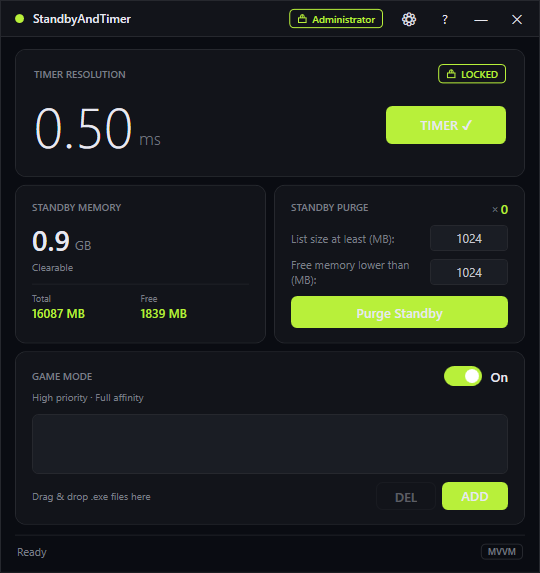
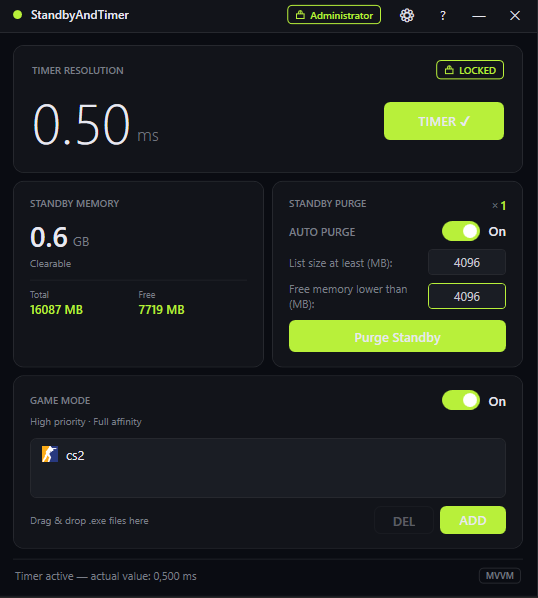
Add AUTO PURGE master switch, default thresholds to 0, tighten timer watchdog to 100 ms (#11)
* Add AUTO PURGE master switch, default thresholds to 0, tighten timer watchdog to 100 ms

A fresh install used to ship StandbyLimit=Free=1024 MB so the standby list
got purged the moment the user crossed both thresholds — without ever
opting in. Defaults are now 0/0 and a new AUTO PURGE toggle gates the
whole auto-purge flow alongside the (already required) > 0 thresholds.

The timer watchdog also drops from 250 ms to 100 ms. NtSetTimerResolution
is a µs-cost idempotent syscall; calling it 10×/sec keeps the drift window
under one 60 Hz frame, so any "1 ms blip" is invisible in-game.

* chore: remove stale nested CLAUDE.md

The project-level CLAUDE.md contradicted the root-level one ("currently
in early development — only the default WPF template exists") and had
the original migration system prompt pasted at the end, which doesn't
belong in a public repo. Root CLAUDE.md is the authoritative copy.

* docs: refresh README screenshot to show AUTO PURGE toggle

Captured from the updated Release build so the screenshot reflects
the new STANDBY PURGE card layout with the master switch above the
threshold inputs.

* perf: pin timer watchdog to dedicated AVRT thread at 50 ms

The 100 ms ThreadPool-based watchdog still let the kernel resolution
briefly slip from 0.5 ms to 1 ms during heavy game load:

  * ThreadPool callbacks can be delayed tens of ms when game code
    saturates the pool.
  * Even if the callback fires on time, the watchdog thread itself
[…]

diff --git a/StandbyAndTimer/MainWindow.xaml b/StandbyAndTimer/MainWindow.xaml
@@ -272,6 +272,35 @@
                                 </StackPanel>
                             </Grid>
 
+                            <!-- AUTO PURGE master toggle — when off, both thresholds
+                                 are ignored and no automatic purge ever fires. -->
+                            <Grid Margin="0,0,0,8">
+                                <TextBlock Text="{DynamicResource Str_Card_AutoPurgeLabel}"
+                                           FontSize="11"
+                                           FontWeight="SemiBold"
+                                           Foreground="{DynamicResource AppFgDim}"
+                                           VerticalAlignment="Center"/>
+                                <CheckBox Style="{StaticResource ToggleSwitchStyle}"
+                                          IsChecked="{Binding AutoPurgeEnabled}"
+                                          HorizontalAlignment="Right"
+                                          VerticalAlignment="Center">
+                                    <CheckBox.Content>
+                                        <TextBlock>
+                                            <TextBlock.Style>
+                                                <Style TargetType="TextBlock">
+                                                    <Setter Property="Text" Value="{DynamicResource Str_Card_GameModeOff}"/>
+                                                    <Style.Triggers>
+                                                        <DataTrigger Binding="{Binding AutoPurgeEnabled}" Value="True">
+                                                            <Setter Property="Text" Value="{DynamicResource Str_Card_GameModeOn}"/>
+                                                        </DataTrigger>
+                                                    </Style.Triggers>
+                                                </Style>
+                                            </TextBlock.Style>
+                                        </TextBlock>
+                                    </CheckBox.Content>
+                                </CheckBox>
+                            </Grid>
+
                             <Grid Margin="0,0,0,6">
                                 <Grid.ColumnDefinitions>
                                     <ColumnDefinition Width="*"/>

diff --git a/StandbyAndTimer/Views/Strings/Strings.en-US.xaml b/StandbyAndTimer/Views/Strings/Strings.en-US.xaml
@@ -17,6 +17,7 @@
     <sys:String x:Key="Str_Card_StandbyTitle">STANDBY MEMORY</sys:String>
     <sys:String x:Key="Str_Card_StandbyClearable">Clearable</sys:String>
     <sys:String x:Key="Str_Card_PurgeTitle">STANDBY PURGE</sys:String>
+    <sys:String x:Key="Str_Card_AutoPurgeLabel">AUTO PURGE</sys:String>
     <sys:String x:Key="Str_Card_GameModeTitle">GAME MODE</sys:String>
     <sys:String x:Key="Str_Card_GameModeOn">On</sys:String>
     <sys:String x:Key="Str_Card_GameModeOff">Off</sys:String>

diff --git a/StandbyAndTimer/Views/Strings/Strings.tr-TR.xaml b/StandbyAndTimer/Views/Strings/Strings.tr-TR.xaml
@@ -17,6 +17,7 @@
     <sys:String x:Key="Str_Card_StandbyTitle">STANDBY BELLEK</sys:String>
     <sys:String x:Key="Str_Card_StandbyClearable">Temizlenebilir</sys:String>
     <sys:String x:Key="Str_Card_PurgeTitle">STANDBY TEMİZLE</sys:String>
+    <sys:String x:Key="Str_Card_AutoPurgeLabel">OTO TEMİZLE</sys:String>
     <sys:String x:Key="Str_Card_GameModeTitle">OYUN MODU</sys:String>
     <sys:String x:Key="Str_Card_GameModeOn">Açık</sys:String>
     <sys:String x:Key="Str_Card_GameModeOff">Kapalı</sys:String>

diff --git a/StandbyAndTimer/Services/TimerResolutionService.cs b/StandbyAndTimer/Services/TimerResolutionService.cs
@@ -7,16 +7,24 @@ internal sealed class TimerResolutionService : ITimerResolutionService
 {
     // ── Triple-lock strategy ──────────────────────────────────────────────────
     //  1. NtSetTimerResolution(min, true)     ← per-process modern API
-    //  2. timeBeginPeriod(1) (winmm)          ← legacy MMTimer double-binding
-    //  3. PROCESS_POWER_THROTTLING_IGNORE_TIMER_RESOLUTION (set once in App)
-    //  4. Self-heal watchdog (1 s tick)       ← if OS drift, NtQuery returns
-    //                                            a value != target → re-Set.
+    //  2. PROCESS_POWER_THROTTLING_IGNORE_TIMER_RESOLUTION (set once in App)
+    //  3. Self-heal watchdog (50 ms, dedicated AVRT thread) ← re-Set
+    //     unconditionally every tick. The watchdog runs on its OWN Thread
+    //     (not the ThreadPool) so it can never be starved by user code or
+    //     EcoQoS scheduling pressure during a game, and it registers itself
+    //     as MMCSS "Pro Audio" so Win 11 won't throttle the watchdog itself.
+    //     Combined: re-assert every ≤50 ms regardless of system load, so
+    //     even if another process briefly released its high-res request the
+    //     OS is back at 0.5 ms within ~3 timer interrupts.
     //
     // `MinimumResolution` is read from NtQueryTimerResolution at Activate time,
     // so we always request the chipset's most aggressive value (often 5000 =
     // 0.5ms but some systems accept 4900 ≈ 0.49ms).
 
-    private System.Threading.Timer? _watchdog;
+    private const int WatchdogTickMs = 50;
+
+    private Thread?                _watchdogThread;
+    private ManualResetEventSlim?  _watchdogStop;
     private uint   _targetUnits = NativeMethods.TARGET_TIMER_RESOLUTION;
     private double _lastReportedMs;     // dedupe: don't fire event when sample didn't move
     private bool   _disposed;
@@ -90,14 +98,23 @@ internal sealed class TimerResolutionService : ITimerResolutionService
         uint taskIndex = 0;
         NativeMethods.AvSetMmThreadCharacteristics("Pro Audio", ref taskIndex);
 
-        // 5. Self-heal watchdog — every 1 second, query the current resolution;
-        //    if it drifted away from our target (e.g. another process released
-        //    its request and the OS rolled back), force-Set again. Re-creating
-        //    the watchdog on each Activate is harmless because Deactivate
-        //    disposes it.
-        _watchdog?.Dispose();
-        _watchdog = new System.Threading.Timer(_ => SelfHeal(), null,
-            TimeSpan.FromSeconds(1), TimeSpan.FromSeconds(1));
+        // 5. Self-heal watchdog — dedicated Thread (NOT ThreadPool) that
+        //    re-asserts the request every 50 ms. The dedicated thread is the
+        //    key win over System.Threading.Timer: under heavy game load the
+        //    ThreadPool can briefly starve, delaying the callback by tens of
+        //    ms. A real Thread with AVRT Pro Audio MMCSS is immune to that
+        //    starvation and is also exempt from Win 11 EcoQoS throttling, so
+        //    drift can never persist longer than ~50 ms even with a CPU-bound
+        //    game running on the same cores.
+        StopWatchdog();
+        _watchdogStop = new ManualResetEventSlim(initialState: false);
+        _watchdogThread = new Thread(WatchdogLoop)
+        {
+            Name         = "TimerResolution-Watchdog",
+            IsBackground = true,
+            Priority     = ThreadPriority.AboveNormal,
+        };
+        _watchdogThread.Start();
 
         IsActive = true;
         _lastReportedMs = 0;
@@ -144,8 +161,7 @@ internal sealed class TimerResolutionService : ITimerResolutionService
     {
         if (!IsActive) return;
 
-        _watchdog?.Dispose();
-        _watchdog = null;
+        StopWatchdog();
 
         // Shutdown path: both calls are best-effort — by the time we get
         // here we're about to lose the process, so a failed return is logged
@@ -158,6 +174,40 @@ internal sealed class TimerResolutionService : ITimerResolutionService
         Logger.Info("Timer deactivated");
     }
 
+    private void StopWatchdog()
+    {
+        _watchdogStop?.Set();
+        // Bounded join — if the thread is somehow stuck (e.g. an MMCSS revert
+        // taking longer than expected during shutdown), we don't want to hang
+        // the whole process; the OS will reclaim the thread anyway.
+        _watchdogThread?.Join(TimeSpan.FromMilliseconds(500));
+        _watchdogThread = null;
+        _watchdogStop?.Dispose();
+        _watchdogStop = null;
+    }
+
+    // Dedicated background thread that re-asserts the timer resolution every
+    // WatchdogTickMs. Registers as AVRT "Pro Audio" on entry so Win 11 won't
+    // EcoQoS-throttle the watchdog itself — without this, the very thread
+    // responsible for fighting throttling could be throttled.
+    private void WatchdogLoop()
+    {
+        uint taskIndex = 0;
+        IntPtr avrt = NativeMethods.AvSetMmThreadCharacteristics("Pro Audio", ref taskIndex);
+        try
+        {
+            // ManualResetEventSlim.Wait(timeout) returns true on signal, false
+            // on timeout — looping until signal gives clean cancellation.
+            while (_watchdogStop is { } stop && !stop.Wait(WatchdogTickMs))
+                SelfHeal();
+        }
+        finally
+        {
+            if (avrt != IntPtr.Zero)
+                _ = NativeMethods.AvRevertMmThreadCharacteristics(avrt);
+        }
+    }
+
     public void Dispose()
     {
         if (_disposed) return;
@@ -165,20 +215,20 @@ internal sealed class TimerResolutionService : ITimerResolutionService
         Deactivate();
     }
 
-    // ── Self-heal: re-assert only when actual ≠ target (cheap NtQuery first) ─
+    // ── Self-heal: unconditional re-assert each tick ─────────────────────────
     private void SelfHeal()
     {
         if (!IsActive) return;
         try
         {
-            if (NativeMethods.NtQueryTimerResolution(out _, out _, out uint current) != 0)
+            // Re-assert without a Query gate. NtSetTimerResolution returns the
+            // kernel's *current* (post-Set) resolution in `current`, so a single
+            // syscall gives us both the re-assert AND the authoritative reading
+            // we need for the UI — half the syscalls of the old query-then-set
+            // path. If another process released its request between ticks, this
+            // Set immediately reclaims the 0.5 ms slot before the next interrupt.
+            if (NativeMethods.NtSetTimerResolution(_targetUnits, true, out uint current) != 0)
                 return;
-
-            // Allow ±1 unit of tolerance — OS occasionally reports the rounded value.
-            if (current == 0 || Math.Abs((long)current - _targetUnits) > 1)
-            {
-                _ = NativeMethods.NtSetTimerResolution(_targetUnits, true, out current);
-            }
 
             // Surface the kernel's authoritative period to the UI. We deliberately
             // prefer this over sample-based measurement: GetSystemTimeAsFileTime

diff --git a/StandbyAndTimer/ViewModels/MainViewModel.cs b/StandbyAndTimer/ViewModels/MainViewModel.cs
@@ -35,8 +35,9 @@ public sealed partial class MainViewModel : ObservableObject, IDisposable
     [ObservableProperty] private long    _freeRamMb;
     [ObservableProperty] private long    _standbyRamMb;
     [ObservableProperty] private int     _purgeCount;
-    [ObservableProperty] private int     _standbyLimitMb = 1024;
-    [ObservableProperty] private int     _freeLimitMb    = 1024;
+    [ObservableProperty] private int     _standbyLimitMb;
+    [ObservableProperty] private int     _freeLimitMb;
+    [ObservableProperty] private bool    _autoPurgeEnabled;
     [ObservableProperty] private bool    _gameModeEnabled;
     [ObservableProperty] private bool    _timerActive;
     [ObservableProperty] private double  _actualTimerMs;
@@ -114,6 +115,7 @@ public sealed partial class MainViewModel : ObservableObject, IDisposable
         {
             StandbyLimitMb   = s.StandbyLimitMb;
             FreeLimitMb      = s.FreeLimitMb;
+            AutoPurgeEnabled = s.AutoPurgeEnabled;
             GameModeEnabled  = s.GameModeEnabled;
             TimerActive      = s.TimerResolutionActive;
 
@@ -132,10 +134,11 @@ public sealed partial class MainViewModel : ObservableObject, IDisposable
 
     private void SyncMonitorSettings()
     {
-        _memoryService.StandbyLimitMb  = StandbyLimitMb;
-        _memoryService.FreeLimitMb     = FreeLimitMb;
-        _memoryService.GameModeEnabled = GameModeEnabled;
-        _memoryService.GamePaths       = Games.Select(g => g.ExecutablePath).ToList();
+        _memoryService.StandbyLimitMb   = StandbyLimitMb;
+        _memoryService.FreeLimitMb      = FreeLimitMb;
+        _memoryService.AutoPurgeEnabled = AutoPurgeEnabled;
+        _memoryService.GameModeEnabled  = GameModeEnabled;
+        _memoryService.GamePaths        = Games.Select(g => g.ExecutablePath).ToList();
     }
 
     private void PersistSettings()
@@ -180,6 +183,7 @@ public sealed partial class MainViewModel : ObservableObject, IDisposable
     {
         StandbyLimitMb        = StandbyLimitMb,
         FreeLimitMb           = FreeLimitMb,
+        AutoPurgeEnabled      = AutoPurgeEnabled,
         GameModeEnabled       = GameModeEnabled,
         AutoStartEnabled      = Settings.AutoStartEnabled,
         TimerResolutionActive = TimerActive,
@@ -238,6 +242,12 @@ public sealed partial class MainViewModel : ObservableObject, IDisposable
     {
         SyncMonitorSettings();
         SchedulePersist();  // debounced — TextBox emits a change per keystroke
+    }
+
+    partial void OnAutoPurgeEnabledChanged(bool value)
+    {
+        SyncMonitorSettings();
+        PersistSettings();
     }
 
     partial void OnGameModeEnabledChanged(bool value)

diff --git a/StandbyAndTimer/Services/MemoryMonitorService.cs b/StandbyAndTimer/Services/MemoryMonitorService.cs
@@ -27,9 +27,10 @@ internal sealed class MemoryMonitorService : IMemoryMonitorService
     private Task? _loopTask;
     private bool  _disposed;
 
-    public int StandbyLimitMb  { get; set; } = 1024;
-    public int FreeLimitMb     { get; set; } = 1024;
-    public bool GameModeEnabled { get; set; }
+    public int  StandbyLimitMb   { get; set; }
+    public int  FreeLimitMb      { get; set; }
+    public bool AutoPurgeEnabled { get; set; }
+    public bool GameModeEnabled  { get; set; }
     public IReadOnlyList<string> GamePaths { get; set; } = [];
 
     public event EventHandler<MemorySnapshot>? SnapshotUpdated;
@@ -110,7 +111,12 @@ internal sealed class MemoryMonitorService : IMemoryMonitorService
                 var snapshot = ReadSnapshot();
                 SnapshotUpdated?.Invoke(this, snapshot);
 
-                bool purgeNeeded = StandbyLimitMb > 0
+                // Master switch: AutoPurgeEnabled must be ON, and both thresholds
+                // must be > 0. Defaults ship as OFF + 0/0 so a fresh install never
+                // touches the standby list until the user explicitly opts in.
+                bool purgeNeeded = AutoPurgeEnabled
+                    && StandbyLimitMb > 0
+                    && FreeLimitMb    > 0
                     && snapshot.StandbyMb >= StandbyLimitMb
                     && snapshot.FreeMb    <= FreeLimitMb;
 

diff --git a/StandbyAndTimer/Services/SettingsService.cs b/StandbyAndTimer/Services/SettingsService.cs
@@ -19,8 +19,12 @@ internal sealed class SettingsService : ISettingsService
 
             var settings = new AppSettings
             {
-                StandbyLimitMb        = GetInt(key,      "StandbyLimitMb",  1024),
-                FreeLimitMb           = GetInt(key,      "FreeLimitMb",      1024),
+                // Defaults intentionally 0 / false so an upgrade *or* fresh install
+                // never auto-purges until the user explicitly opts in via the
+                // AUTO PURGE toggle and sets non-zero thresholds.
+                StandbyLimitMb        = GetInt(key,      "StandbyLimitMb",      0),
+                FreeLimitMb           = GetInt(key,      "FreeLimitMb",         0),
+                AutoPurgeEnabled      = GetBool(key,     "AutoPurgeEnabled"),
                 GameModeEnabled       = GetBool(key,     "GameModeEnabled"),
                 AutoStartEnabled      = GetBool(key,     "AutoStartEnabled"),
                 TimerResolutionActive = GetBool(key,     "TimerResolutionActive"),
@@ -62,6 +66,7 @@ internal sealed class SettingsService : ISettingsService
             // must round-trip cleanly when the user later switches to en-US.
             key.SetValue("StandbyLimitMb", settings.StandbyLimitMb.ToString(CultureInfo.InvariantCulture));
             key.SetValue("FreeLimitMb",    settings.FreeLimitMb.ToString(CultureInfo.InvariantCulture));
+            key.SetValue("AutoPurgeEnabled",       settings.AutoPurgeEnabled       ? "1" : "0");
             key.SetValue("GameModeEnabled",        settings.GameModeEnabled        ? "1" : "0");
             key.SetValue("AutoStartEnabled",       settings.AutoStartEnabled       ? "1" : "0");
             key.SetValue("TimerResolutionActive",  settings.TimerResolutionActive  ? "1" : "0");

diff --git a/StandbyAndTimer/Core/Interfaces/IMemoryMonitorService.cs b/StandbyAndTimer/Core/Interfaces/IMemoryMonitorService.cs
@@ -8,9 +8,10 @@ public interface IMemoryMonitorService : IDisposable
     event EventHandler<MemorySnapshot>? SnapshotUpdated;
 
     // Configurable thresholds — updated live from the ViewModel without restart.
-    int StandbyLimitMb { get; set; }
-    int FreeLimitMb    { get; set; }
-    bool GameModeEnabled { get; set; }
+    int  StandbyLimitMb   { get; set; }
+    int  FreeLimitMb      { get; set; }
+    bool AutoPurgeEnabled { get; set; }
+    bool GameModeEnabled  { get; set; }
     IReadOnlyList<string> GamePaths { get; set; }
 
     Task StartAsync(CancellationToken cancellationToken);

diff --git a/StandbyAndTimer/Core/Models/AppSettings.cs b/StandbyAndTimer/Core/Models/AppSettings.cs
@@ -2,8 +2,9 @@ namespace StandbyAndTimer.Core.Models;
 
 public sealed class AppSettings
 {
-    public int         StandbyLimitMb        { get; set; } = 1024;
-    public int         FreeLimitMb           { get; set; } = 1024;
+    public int         StandbyLimitMb        { get; set; }
+    public int         FreeLimitMb           { get; set; }
+    public bool        AutoPurgeEnabled      { get; set; }
     public bool        GameModeEnabled       { get; set; }
     public bool        AutoStartEnabled      { get; set; }
     public bool        TimerResolutionActive { get; set; }